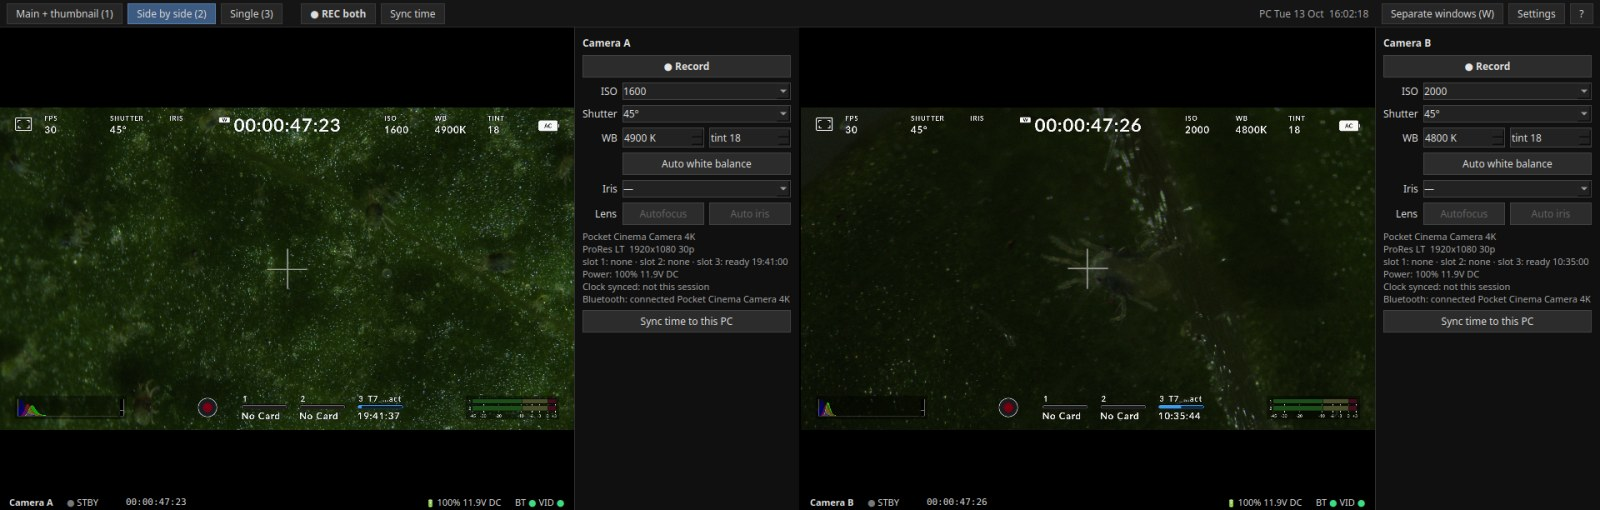
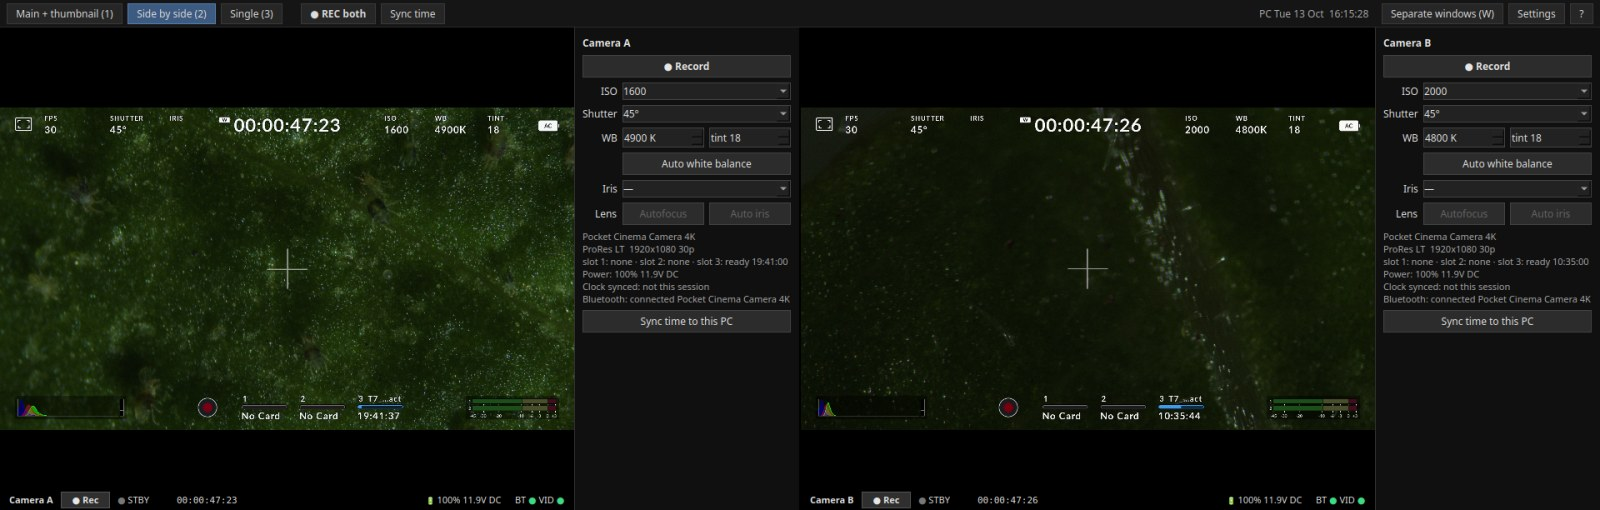
Record each camera separately: status-bar Rec buttons, Ctrl+1/Ctrl+2
Each camera's status bar gets a Rec/Stop button (works in every layout and in
separate-window mode); Ctrl+1/Ctrl+2 toggle camera A/B. REC both stops whatever
is recording, otherwise starts every camera that can; it reads "REC" in a
one-camera setup. Buttons are disabled when REC would do nothing and only
re-style when their state changes (the timecode ticks ~30x/s).

diff --git a/ui/tile.py b/ui/tile.py
@@ -42,6 +42,12 @@ QFrame#panel QPushButton:disabled { color: #666; }
 QFrame#panel QPushButton#rec { font-weight: bold; }
 QFrame#panel QPushButton#rec[recording="true"] { background: #b3121b; border-color: #e33; }
 QFrame#panel QComboBox, QFrame#panel QSpinBox { background: #222; border: 1px solid #444; }
+QFrame#statusbar QToolButton#recbtn { color: #e6e6e6; background: rgba(60,60,60,200);
+    border: 1px solid #555; font: bold 11px 'Sans'; padding: 0 8px; }
+QFrame#statusbar QToolButton#recbtn:hover { background: rgba(90,90,90,220); }
+QFrame#statusbar QToolButton#recbtn:disabled { color: #777; background: rgba(40,40,40,160); }
+QFrame#statusbar QToolButton#recbtn[recording="true"] { background: #b3121b; border-color: #e33;
+    color: white; }
 QToolButton#gear { color: white; background: rgba(0,0,0,140); border: none; font-size: 16px;
     padding: 2px 6px; }
 """
@@ -62,6 +68,11 @@ class StatusBar(QFrame):
         lay.setContentsMargins(4, 2, 4, 2)
         lay.setSpacing(2)
         self.name = QLabel(ctl.name)
+        self._rec_key: tuple | None = None
+        self.recbtn = QToolButton()
+        self.recbtn.setObjectName("recbtn")
+        self.recbtn.setFocusPolicy(Qt.FocusPolicy.NoFocus)  # Tab must keep swapping cameras
+        self.recbtn.clicked.connect(ctl.toggle_recording)
         self.rec = QLabel()
         self.srec = QLabel()  # recording the HDMI feed to this PC
         self.tc = QLabel()
@@ -69,7 +80,7 @@ class StatusBar(QFrame):
         self.media = QLabel()
         self.battery = QLabel()
         self.links = QLabel()
-        for w in (self.name, self.rec, self.srec, self.tc, self.settings):
+        for w in (self.name, self.recbtn, self.rec, self.srec, self.tc, self.settings):
             lay.addWidget(w)
         lay.addStretch(1)
         for w in (self.media, self.battery, self.links):
@@ -85,8 +96,30 @@ class StatusBar(QFrame):
         self.settings.setVisible(not compact)
         self.media.setVisible(not compact)
 
+    def _update_rec_button(self, st) -> None:
+        # refresh() runs for every timecode tick, so only touch the widget when something changed
+        ctl = self.ctl
+        on = ctl.recording_any()
+        key = (ctl.configured(), on, not st.rec_pending and ctl.can_record(), ctl.cfg.record.target)
+        if key == self._rec_key:
+            return
+        self._rec_key = key
+        configured, _on, enabled, target = key
+        b = self.recbtn
+        b.setVisible(configured)
+        b.setText("■ Stop" if on else "● Rec")
+        b.setEnabled(enabled)
+        b.setProperty("recording", "true" if on else "false")
+        b.style().unpolish(b)
+        b.style().polish(b)
+        where = {"camera": "on the camera", "stream": "the stream to this PC",
+                 "both": "the camera and the stream"}[target]
+        b.setToolTip(f"{'Stop' if on else 'Start'} recording {where} "
+                     f"(Ctrl+{'1' if ctl.cid == 'A' else '2'})")
+
     def refresh(self) -> None:
         st = self.ctl.status
+        self._update_rec_button(st)
         if st.rec_pending:
             self.rec.setText(f"{_dot('#f5b400')} {'REC…' if st.rec_pending == 'start' else 'STOP…'}")
         elif st.recording:
@@ -265,7 +298,7 @@ class ControlPanel(QFrame):
         st, ctl = self.ctl.status, self.ctl
         live = ctl.connected()
         target = ctl.cfg.record.target
-        self.rec.setEnabled(live if target == "camera" else ctl.capture is not None)
+        self.rec.setEnabled(not st.rec_pending and ctl.can_record())
         for w in (self.iso, self.shutter, self.kelvin, self.tint, self.auto_wb, self.sync):
             w.setEnabled(live)
         lens = live and bool(st.has_lens)

diff --git a/ui/tests/test_record_buttons.py b/ui/tests/test_record_buttons.py
@@ -1,0 +1,105 @@
+"""Per-camera and both-camera REC logic, with fake captures (no devices, no Bluetooth)."""
+
+import os
+
+os.environ.setdefault("QT_QPA_PLATFORM", "offscreen")
+
+import pytest
+from PySide6.QtWidgets import QApplication
+
+import config
+from ui import controller as controller_mod
+from ui.main_window import MainWindow
+from video.capture import Capture
+
+
+class FakeCapture(Capture):
+    supports_recording = True
+
+    def __init__(self, by_id, *a, **kw):
+        super().__init__(by_id, *a, **kw)
+        self._rec = False
+        self.state = "streaming"
+
+    def _open(self): ...
+    def _close(self): ...
+    def start(self): ...
+    def stop(self): ...
+
+    @property
+    def recording(self):
+        return self._rec
+
+    def start_recording(self, rc, camera_id):
+        self._rec = True
+        self.recordingChanged.emit(True, f"/tmp/{camera_id}.mkv")
+
+    def stop_recording(self):
+        self._rec = False
+        self.recordingChanged.emit(False, "/tmp/x.mkv")
+
+
+@pytest.fixture(scope="module")
+def app():
+    return QApplication.instance() or QApplication([])
+
+
+def make_window(monkeypatch, cams: str):
+    monkeypatch.setitem(controller_mod.BACKENDS, "gst", FakeCapture)
+    cfg = config.AppConfig()
+    cfg.record.target = "stream"
+    for cid in cams:
+        cfg.cameras[cid].video_device = f"/dev/v4l/by-id/fake-{cid}"
+    return MainWindow(cfg)
+
+
+def rec(win):
+    return {cid: c.status.stream_rec for cid, c in win.ctls.items()}
+
+
+def test_cameras_record_independently(app, monkeypatch):
+    win = make_window(monkeypatch, "AB")
+    assert win.rec_both.text() == "● REC both"
+    win.toggle_record_camera("A")
+    assert rec(win) == {"A": True, "B": False}
+    win.toggle_record_camera("B")
+    assert rec(win) == {"A": True, "B": True}
+    win.toggle_record_camera("A")
+    assert rec(win) == {"A": False, "B": True}
+    assert win.rec_both.text() == "■ STOP both"
+    win.toggle_record_both()  # something is recording: stops it, does not start A
+    assert rec(win) == {"A": False, "B": False}
+    win.toggle_record_both()
+    assert rec(win) == {"A": True, "B": True}
+    win.toggle_record_both()
+    assert rec(win) == {"A": False, "B": False}
+
+
+def test_status_bar_buttons_follow_state(app, monkeypatch):
+    win = make_window(monkeypatch, "AB")
+    a = win.stage.tiles["A"].status.recbtn
+    assert a.text() == "● Rec" and a.isEnabled()
+    a.click()
+    assert a.text() == "■ Stop" and a.property("recording") == "true"
+    assert win.stage.tiles["B"].status.recbtn.text() == "● Rec"
+    a.click()
+    assert a.text() == "● Rec"
+
+
+def test_one_camera_setup(app, monkeypatch):
+    win = make_window(monkeypatch, "A")
+    assert win.rec_both.text() == "● REC"  # not "both"
+    assert win.stage.tiles["B"].status.recbtn.isHidden()
+    win.toggle_record_both()
+    assert rec(win) == {"A": True, "B": False}
+    win.toggle_record_camera("B")  # not set up: warns, does nothing
+    assert rec(win) == {"A": True, "B": False}
+    win.toggle_record_both()
+    assert rec(win) == {"A": False, "B": False}
+
+
+def test_button_disabled_when_nothing_to_record(app, monkeypatch):
+    win = make_window(monkeypatch, "A")
+    win.cfg.record.target = "camera"  # camera media needs a Bluetooth link; there is none
+    win.ctls["A"].changed.emit()
+    assert not win.stage.tiles["A"].status.recbtn.isEnabled()

diff --git a/ui/main_window.py b/ui/main_window.py
@@ -272,7 +272,14 @@ class MainWindow(QWidget):
 
     def _refresh_bar(self) -> None:
         any_rec = any(c.recording_any() for c in self.ctls.values())
-        self.rec_both.setText("■ STOP both" if any_rec else "● REC both")
+        many = sum(c.configured() for c in self.ctls.values()) > 1
+        key = (any_rec, many)
+        if key == getattr(self, "_bar_key", None):
+            return  # runs for every timecode tick; only touch the button when it changes
+        self._bar_key = key
+        self.rec_both.setText((("■ STOP " if any_rec else "● REC ") + ("both" if many else "")).strip())
+        self.rec_both.setToolTip("Start/stop recording on the cameras (Ctrl+R); Ctrl+1 / Ctrl+2 "
+                                 "record one camera. What gets recorded: Settings → Recording")
         self.rec_both.setProperty("recording", "true" if any_rec else "false")
         self.rec_both.style().unpolish(self.rec_both)
         self.rec_both.style().polish(self.rec_both)
@@ -305,9 +312,17 @@ class MainWindow(QWidget):
             self.swap()
 
     def toggle_record_both(self) -> None:
-        start = not any(c.recording_any() for c in self.ctls.values())
-        for ctl in self.ctls.values():
-            ctl.set_recording(start)  # both sent concurrently
+        """Stop whatever is recording; if nothing is, start every camera that can."""
+        recording = [c for c in self.ctls.values() if c.recording_any()]
+        for ctl in recording or [c for c in self.ctls.values() if c.configured()]:
+            ctl.set_recording(not recording)  # sent concurrently
+
+    def toggle_record_camera(self, cid: str) -> None:
+        ctl = self.ctls[cid]
+        if ctl.configured():
+            ctl.toggle_recording()
+        else:
+            self.stage.show_alert("warn", f"Camera {cid} is not set up (Settings)")
 
     def sync_time_both(self) -> None:
         for ctl in self.ctls.values():
@@ -424,6 +439,8 @@ class MainWindow(QWidget):
         self.cfg.cameras = new.cameras
         self.cfg.ble = new.ble
         self.cfg.record = new.record
+        for ctl in self.ctls.values():
+            ctl.changed.emit()  # buttons and tooltips follow the new REC target
         try:
             config.save(self.cfg)
         except OSError as e:
@@ -455,6 +472,8 @@ class MainWindow(QWidget):
             "H": self.toggle_bar,
             "W": lambda: self.set_feed_windows(not self.feed_windows),
             "Ctrl+R": self.toggle_record_both,
+            "Ctrl+1": lambda: self.toggle_record_camera("A"),
+            "Ctrl+2": lambda: self.toggle_record_camera("B"),
             "Ctrl+T": self.sync_time_both,
             "Ctrl+,": self.open_settings,
         }
@@ -535,6 +554,7 @@ C           camera control panels (or hover + ⚙)
 D           debug overlay (capture size, fps, latency)
 H           hide/show this bar
 Ctrl+R      record both on/off
+Ctrl+1 / 2  record camera A / B on/off (or the Rec button in its status bar)
 Ctrl+T      sync both camera clocks to this PC
 Ctrl+,      settings
 ?, F1       this help"""

diff --git a/ui/controller.py b/ui/controller.py
@@ -161,6 +161,21 @@ class CameraController(QObject):
         if target in ("camera", "both") and self.cam_cfg.ble_address:
             self._set_camera_recording(on)
 
+    def configured(self) -> bool:
+        """Has a video feed or a Bluetooth camera assigned (B is empty in one-camera setups)."""
+        return bool(self.capture or self.cam_cfg.ble_address)
+
+    def can_record(self) -> bool:
+        """Whether REC would do something right now (stopping is always possible)."""
+        if self.recording_any():
+            return True
+        target = self.cfg.record.target
+        cam = target in ("camera", "both") and self.connected()
+        cap = self.capture
+        stream = (target in ("stream", "both") and cap is not None and cap.supports_recording
+                  and cap.state == "streaming")
+        return cam or stream
+
     def recording_any(self) -> bool:
         cam = self.cfg.record.target in ("camera", "both") and self.status.recording
         return cam or self.status.stream_rec

diff --git a/README.md b/README.md
@@ -87,7 +87,8 @@ Press **C** for the control panels (record, ISO, shutter, white balance, lens, t
 | C, or hover + ⚙ | camera control panel (record, ISO, shutter, white balance, lens) |
 | D | debug overlay: actual capture size, fps, capture-to-app delay |
 | H | hide/show the top bar |
-| Ctrl+R | record both on/off |
+| Ctrl+R | record both cameras on/off (stops whichever is recording) |
+| Ctrl+1 / Ctrl+2 | record camera A / B on/off (also the **Rec** button in each camera's status bar) |
 | Ctrl+T | sync both camera clocks to this PC |
 | Ctrl+, | settings: scan/pair cameras, assign BLE and Cam Links to A/B, options |
 
@@ -103,7 +104,11 @@ this affects recordings (see below).
 
 ## Recording
 
-Settings → **Recording → REC records** picks what the REC buttons (and Ctrl+R) do:
+Each camera records on its own: use the **Rec** button in its status bar (it works in every layout
+and in separate windows), **Ctrl+1** / **Ctrl+2**, or the Record button in its control panel.
+**REC both** (top bar, Ctrl+R) stops whatever is recording, or starts every camera that can.
+
+Settings → **Recording → REC records** picks what these buttons do:
 
 - **The camera's own media** (default): sends the record command over Bluetooth. The footage is
   the camera's full-quality file on its card or SSD.
